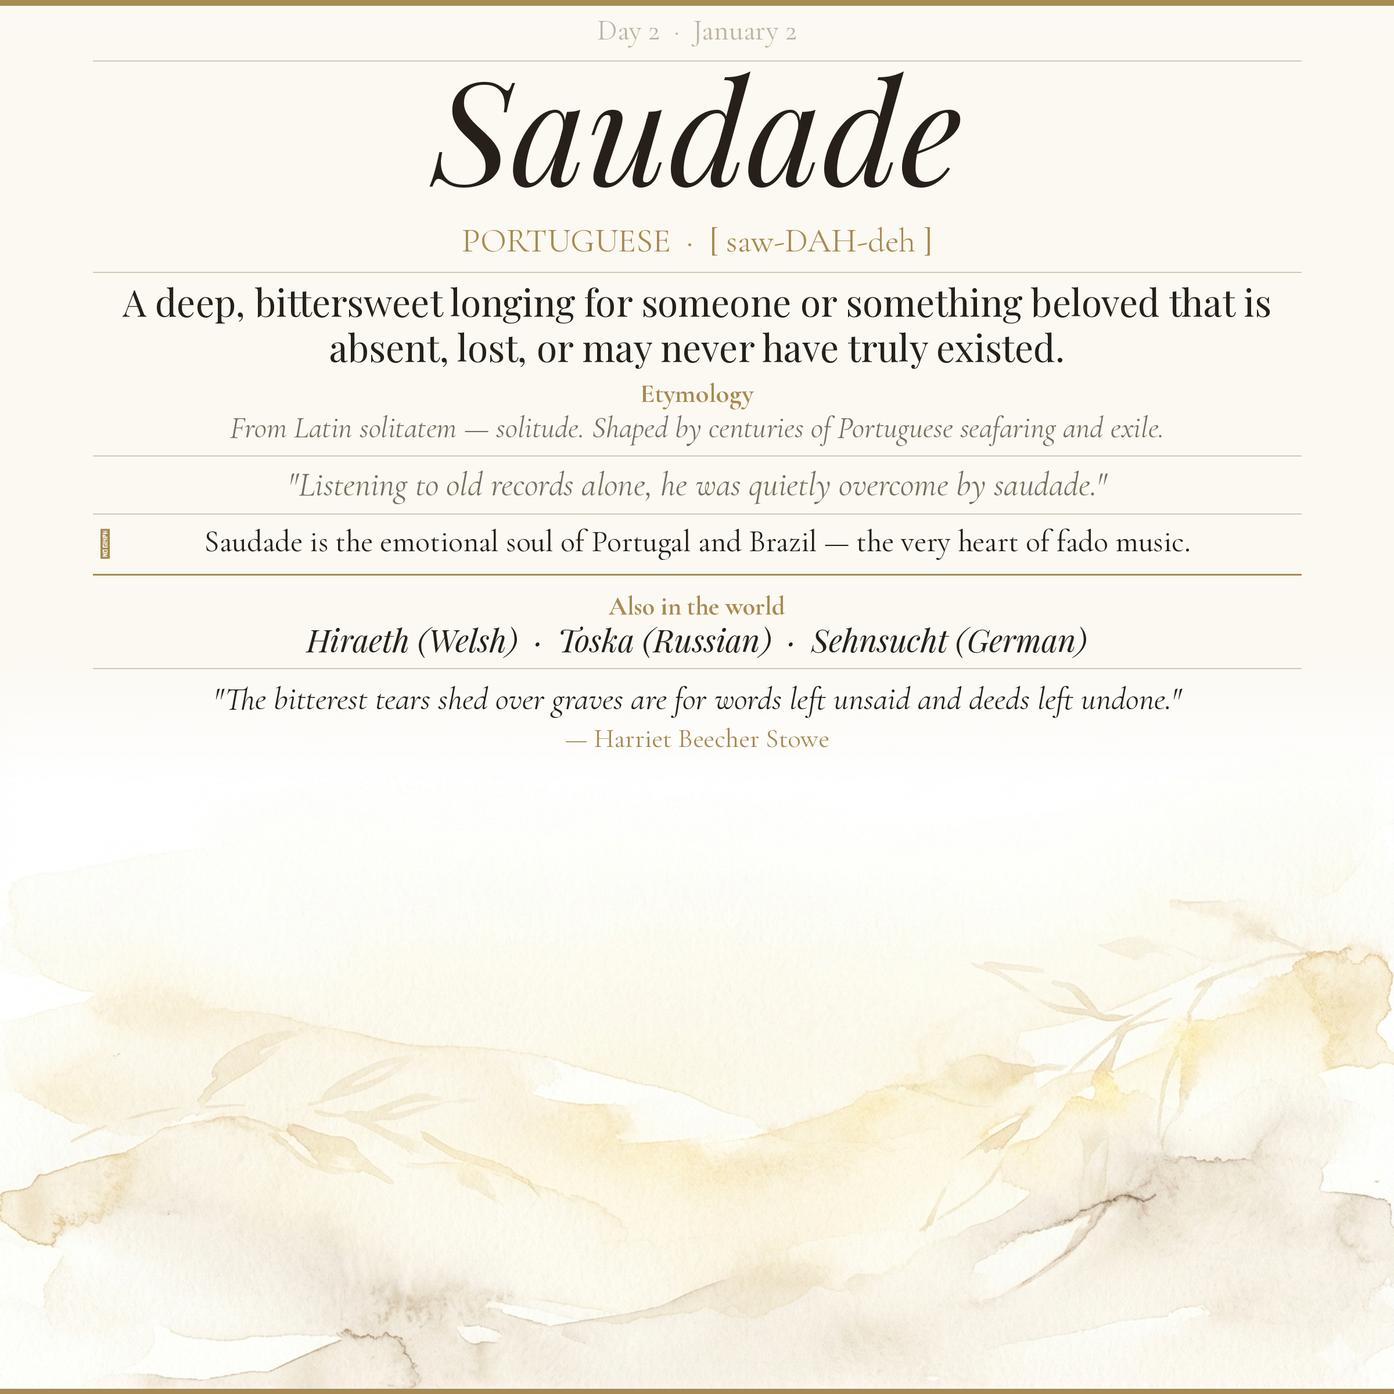
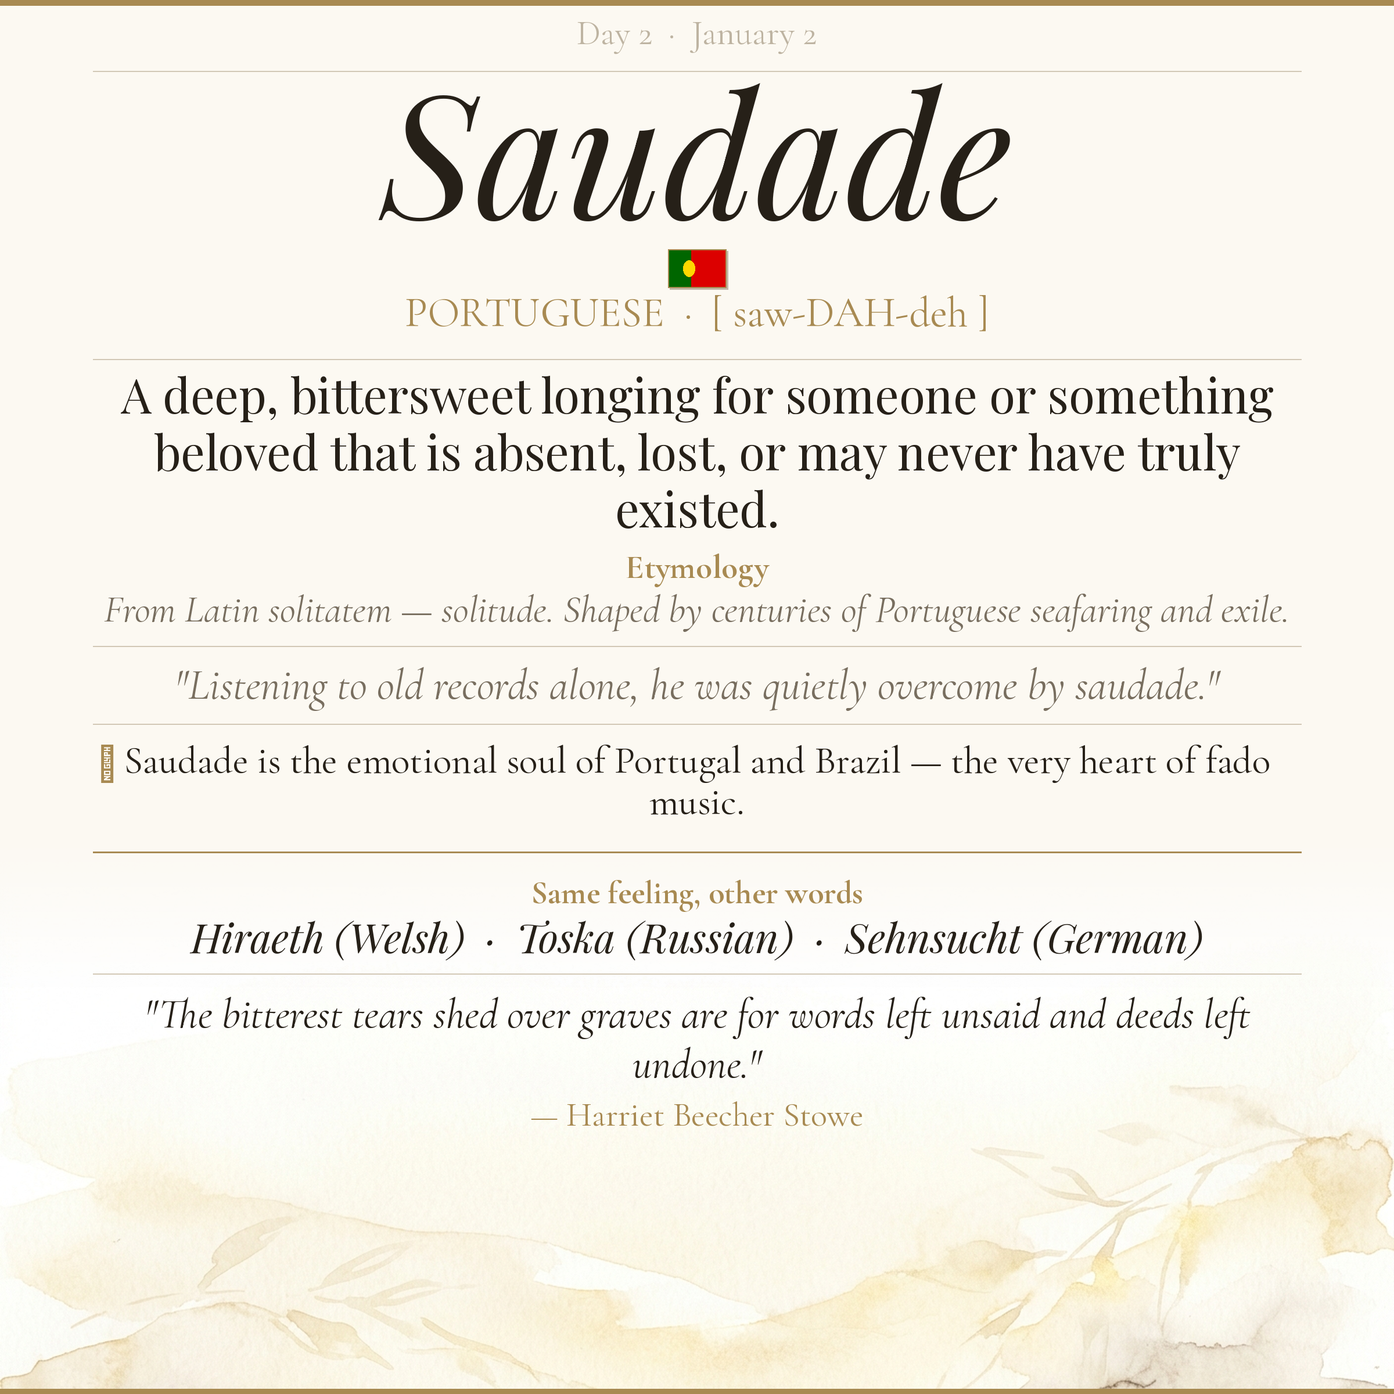
Add mini flags, bigger fonts, clearer section labels to word book
- Draw_mini_flag() renders 100×66 country flags for 30+ languages
- All font sizes increased ~28% for better page fill
- "Also in the world" renamed to "Same feeling, other words"
- Watercolor starts at 60% of page height (was 50%)
- Content now fills ~75-80% of page height

https://claude.ai/code/session_018BNd1Ba7eFukj4va47McZo

diff --git a/make_word_book.py b/make_word_book.py
@@ -8,7 +8,7 @@ import numpy as np, os
 BG_PATH = "/root/.claude/uploads/ed975202-b10e-4904-b9ca-246001848a28/2be84b39-1000008697.png"
 OUT_DIR  = "/home/user/Ebook"
 
-W, H   = 2400, 2400          # 8×8 inch carré à 300 DPI
+W, H   = 2400, 2400
 CREAM  = (252, 249, 242)
 GOLD   = (168, 138, 82)
 DARK   = (38,  32,  24)
@@ -16,7 +16,6 @@ GRAY   = (120, 110, 95)
 LGRAY  = (190, 180, 162)
 RULE   = (210, 200, 182)
 
-# Polices élégantes
 FC_REG  = "/home/user/Ebook/fonts/CormorantGaramond-Regular.ttf"
 FC_BOLD = "/home/user/Ebook/fonts/CormorantGaramond-Bold.ttf"
 FC_ITAL = "/home/user/Ebook/fonts/CormorantGaramond-Italic.ttf"
@@ -42,156 +41,267 @@ def wrap(text, font, draw, max_w):
 def rule(draw, y, x1=160, x2=None, color=None, w=1):
     if x2 is None: x2 = W - 160
     if color is None: color = RULE
-    draw.rectangle([x1, y, x2, y+w], fill=color)
+    draw.rectangle([x1, y, x2, y + w], fill=color)
 
 
-def ornament(draw, y, font_size=52):
-    fn = ImageFont.truetype(FC_REG, font_size)
-    draw.text((W//2, y), "✦", fill=GOLD, font=fn, anchor="mt")
+# ── Mini flag data ─────────────────────────────────────────────────────────────
+# (kind, color1, color2, color3)
+_FLAGS = {
+    "DANISH":               ("nordic",  (198,12,48),    (255,255,255), None),
+    "NORWEGIAN":            ("nordic",  (239,43,45),    (255,255,255), (0,40,104)),
+    "SWEDISH":              ("nordic",  (0,106,167),    (254,204,2),   None),
+    "FINNISH":              ("nordic",  (255,255,255),  (0,53,128),    None),
+    "ICELANDIC":            ("nordic",  (0,79,157),     (255,255,255), (220,0,0)),
+    "GERMAN":               ("h3",      (0,0,0),        (221,0,0),     (255,206,0)),
+    "DUTCH":                ("h3",      (174,28,40),    (255,255,255), (33,70,139)),
+    "RUSSIAN":              ("h3",      (255,255,255),  (0,57,166),    (213,43,30)),
+    "POLISH":               ("h2",      (255,255,255),  (220,0,0),     None),
+    "CZECH":                ("czech",   (255,255,255),  (215,20,26),   (17,69,126)),
+    "FRENCH":               ("v3",      (0,85,164),     (255,255,255), (239,65,53)),
+    "ITALIAN":              ("v3",      (0,146,70),     (255,255,255), (206,43,55)),
+    "SPANISH":              ("h4",      (170,21,27),    (241,191,0),   None),
+    "PORTUGUESE":           ("pt",      (0,102,0),      (220,0,0),     (255,215,0)),
+    "BRAZILIAN PORTUGUESE": ("pt",      (0,102,0),      (220,0,0),     (255,215,0)),
+    "JAPANESE":             ("circle",  (255,255,255),  (188,0,45),    None),
+    "KOREAN":               ("circle",  (255,255,255),  (205,46,58),   None),
+    "INUIT":                ("circle",  (255,255,255),  (204,12,0),    None),
+    "TURKISH":              ("turkish", (227,10,23),    (255,255,255), None),
+    "GREEK":                ("greek",   (13,94,175),    (255,255,255), None),
+    "HEBREW":               ("israel",  (255,255,255),  (0,56,184),    None),
+    "ARABIC":               ("solid",   (0,106,78),     None,          None),
+    "WELSH":                ("welsh",   (255,255,255),  (0,159,40),    (210,16,52)),
+    "URDU":                 ("india",   (255,153,51),   (255,255,255), (19,136,8)),
+    "HINDI":                ("india",   (255,153,51),   (255,255,255), (19,136,8)),
+    "SANSKRIT":             ("india",   (255,153,51),   (255,255,255), (19,136,8)),
+    "BORO":                 ("india",   (255,153,51),   (255,255,255), (19,136,8)),
+    "ZULU":                 ("solid",   (0,119,73),     None,          None),
+    "TAGALOG":              ("solid",   (0,56,168),     None,          None),
+    "YAGHAN":               ("solid",   (180,170,155),  None,          None),
+}
 
+
+def draw_mini_flag(draw, cx, cy, language):
+    """Draw a 100×66 mini flag centered at (cx, cy)."""
+    FW, FH = 100, 66
+    x0, y0 = cx - FW // 2, cy - FH // 2
+    x1, y1 = cx + FW // 2, cy + FH // 2
+    mx = x0 + FW // 3   # Nordic cross vertical bar (offset left)
+
+    lang = language.upper()
+    kind, c1, c2, c3 = _FLAGS.get(lang, ("solid", (200,185,165), None, None))
+
+    # Drop shadow
+    draw.rectangle([x0+3, y0+3, x1+3, y1+3], fill=(195,185,170))
+
+    # Base
+    draw.rectangle([x0, y0, x1, y1], fill=c1 or (235,228,215))
+
+    if kind == "nordic":
+        draw.rectangle([x0, cy-5, x1, cy+5], fill=c2)
+        draw.rectangle([mx-5, y0, mx+5, y1], fill=c2)
+        if c3:
+            draw.rectangle([x0, cy-3, x1, cy+3], fill=c3)
+            draw.rectangle([mx-3, y0, mx+3, y1], fill=c3)
+
+    elif kind == "h3":
+        h = FH // 3
+        draw.rectangle([x0, y0+h,   x1, y0+2*h], fill=c2)
+        draw.rectangle([x0, y0+2*h, x1, y1],     fill=c3)
+
+    elif kind == "h2":
+        draw.rectangle([x0, y0+FH//2, x1, y1], fill=c2)
+
+    elif kind == "h4":
+        draw.rectangle([x0, y0+FH//4, x1, y0+3*FH//4], fill=c2)
+
+    elif kind == "v3":
+        w3 = FW // 3
+        draw.rectangle([x0+w3,   y0, x0+2*w3, y1], fill=c2)
+        draw.rectangle([x0+2*w3, y0, x1,       y1], fill=c3)
+
+    elif kind == "circle":
+        draw.ellipse([cx-17, cy-17, cx+17, cy+17], fill=c2)
+
+    elif kind == "pt":
+        # Portugal: narrow green stripe left, red right, gold sphere on seam
+        draw.rectangle([x0+FW*2//5, y0, x1, y1], fill=c2)
+        draw.ellipse([cx-FW//5-4, cy-14, cx-FW//5+16, cy+14], fill=c3)
+
+    elif kind == "czech":
+        draw.rectangle([x0, cy, x1, y1], fill=c2)
+        draw.polygon([(x0,y0),(x0+FW//2,cy),(x0,y1)], fill=c3)
+
+    elif kind == "israel":
+        draw.rectangle([x0, y0+FH//6,   x1, y0+2*FH//6], fill=c2)
+        draw.rectangle([x0, y0+4*FH//6, x1, y0+5*FH//6], fill=c2)
+
+    elif kind == "welsh":
+        draw.rectangle([x0, cy, x1, y1], fill=c2)
+        # Simplified dragon hint
+        draw.ellipse([cx-13, cy-24, cx+13, cy+4], fill=c3)
+
+    elif kind == "turkish":
+        draw.ellipse([cx-18, cy-13, cx+11, cy+13], fill=c2)
+        draw.ellipse([cx-11, cy-10, cx+14, cy+10], fill=c1)
+
+    elif kind == "greek":
+        h = FH // 5
+        for i in range(5):
+            if i % 2 == 1:
+                draw.rectangle([x0, y0+i*h, x1, y0+(i+1)*h], fill=c2)
+
+    elif kind == "india":
+        h3 = FH // 3
+        draw.rectangle([x0, y0,      x1, y0+h3],   fill=c1)
+        draw.rectangle([x0, y0+h3,   x1, y0+2*h3], fill=c2)
+        draw.rectangle([x0, y0+2*h3, x1, y1],       fill=c3)
+
+    # Gold border
+    draw.rectangle([x0, y0, x1, y1], outline=GOLD, width=2)
+
+
+# ── Page renderer ─────────────────────────────────────────────────────────────
 
 def make_page(day_num, date_str, word, language, pronunciation,
               definition, etymology, example, cultural_note,
               related, quote, quote_author,
               out_name="word_demo.png"):
 
-    # ── Canvas ────────────────────────────────────────────────────────────────
+    # Canvas
     img = Image.new("RGB", (W, H), CREAM)
 
-    # ── Watercolor — remonte haut, texte écrit par-dessus ────────────────────
-    bg = Image.open(BG_PATH).convert("RGB")
-    # Étirer pour couvrir la moitié inférieure de la page
-    bg_start = H // 2 - 80
+    # Watercolor background
+    bg       = Image.open(BG_PATH).convert("RGB")
+    bg_start = round(H * 0.60)
     bg_zone  = H - bg_start
-    scale_h  = bg_zone / bg.height
-    scale_w  = W / bg.width
-    scale    = max(scale_h, scale_w)
-    nw, nh   = round(bg.width*scale), round(bg.height*scale)
+    scale    = max(bg_zone / bg.height, W / bg.width)
+    nw, nh   = round(bg.width * scale), round(bg.height * scale)
     bg = bg.resize((nw, nh), Image.LANCZOS)
-    bg = bg.crop(((nw-W)//2, 0, (nw-W)//2+W, bg_zone))
-
-    # Fondu progressif cream → watercolor sur 220px
+    bg = bg.crop(((nw - W) // 2, 0, (nw - W) // 2 + W, bg_zone))
     arr  = np.array(bg, float)
-    fade = 220
+    fade = 260
     for i in range(min(fade, bg_zone)):
         t = i / fade
-        arr[i] = np.array(CREAM)*(1-t) + arr[i]*t
+        arr[i] = np.array(CREAM) * (1 - t) + arr[i] * t
     img.paste(Image.fromarray(arr.astype("uint8")), (0, bg_start))
 
     draw = ImageDraw.Draw(img)
 
-    # ── Bandes dorées ─────────────────────────────────────────────────────────
-    draw.rectangle([0, 0, W, 9], fill=GOLD)
+    # Gold bands
+    draw.rectangle([0, 0, W, 9],   fill=GOLD)
     draw.rectangle([0, H-9, W, H], fill=GOLD)
 
-    # ── Date & numéro ─────────────────────────────────────────────────────────
-    fn_date = ImageFont.truetype(FC_REG, 50)
-    draw.text((W//2, 36), f"Day {day_num}  ·  {date_str}",
+    # ── Date ──────────────────────────────────────────────────────────────────
+    fn_date = ImageFont.truetype(FC_REG, 60)
+    draw.text((W // 2, 38), f"Day {day_num}  ·  {date_str}",
               fill=LGRAY, font=fn_date, anchor="mt")
-    rule(draw, 104)
+    rule(draw, 122)
 
-    # ── LE MOT ────────────────────────────────────────────────────────────────
-    fn_word = ImageFont.truetype(FP_ITAL, 248)
-    draw.text((W//2, 122), word, fill=DARK, font=fn_word, anchor="mt")
+    # ── Word ──────────────────────────────────────────────────────────────────
+    fn_word = ImageFont.truetype(FP_ITAL, 295)
+    draw.text((W // 2, 142), word, fill=DARK, font=fn_word, anchor="mt")
 
-    # ── Langue + prononciation ────────────────────────────────────────────────
-    fn_lang = ImageFont.truetype(FC_REG, 58)
-    draw.text((W//2, 390), f"{language.upper()}  ·  {pronunciation}",
+    # ── Flag + Language + Pronunciation ───────────────────────────────────────
+    flag_cy = 462
+    draw_mini_flag(draw, W // 2, flag_cy, language)
+
+    fn_lang = ImageFont.truetype(FC_REG, 72)
+    draw.text((W // 2, flag_cy + 46),
+              f"{language.upper()}  ·  {pronunciation}",
               fill=GOLD, font=fn_lang, anchor="mt")
-    rule(draw, 468)
-    y = 494
+    rule(draw, 618)
+    y = 646
 
-    # ── Définition ────────────────────────────────────────────────────────────
-    fn_def = ImageFont.truetype(FP_REG, 64)
-    for line in wrap(definition, fn_def, draw, W-340):
-        draw.text((W//2, y), line, fill=DARK, font=fn_def, anchor="mt")
-        y += 78
-    y += 8
+    # ── Definition ────────────────────────────────────────────────────────────
+    fn_def = ImageFont.truetype(FP_REG, 82)
+    for line in wrap(definition, fn_def, draw, W - 300):
+        draw.text((W // 2, y), line, fill=DARK, font=fn_def, anchor="mt")
+        y += 98
+    y += 12
 
-    # ── Étymologie ────────────────────────────────────────────────────────────
-    fn_etym_lbl = ImageFont.truetype(FC_BOLD, 46)
-    fn_etym     = ImageFont.truetype(FC_ITAL, 52)
-    draw.text((W//2, y), "Etymology", fill=GOLD, font=fn_etym_lbl, anchor="mt")
-    y += 56
-    for line in wrap(etymology, fn_etym, draw, W-340):
-        draw.text((W//2, y), line, fill=GRAY, font=fn_etym, anchor="mt")
-        y += 62
-    y += 8
-    rule(draw, y); y += 26
+    # ── Etymology ─────────────────────────────────────────────────────────────
+    fn_etym_lbl = ImageFont.truetype(FC_BOLD, 58)
+    fn_etym     = ImageFont.truetype(FC_ITAL, 66)
+    draw.text((W // 2, y), "Etymology", fill=GOLD, font=fn_etym_lbl, anchor="mt")
+    y += 70
+    for line in wrap(etymology, fn_etym, draw, W - 300):
+        draw.text((W // 2, y), line, fill=GRAY, font=fn_etym, anchor="mt")
+        y += 80
+    y += 10
+    rule(draw, y); y += 36
 
-    # ── Phrase exemple ────────────────────────────────────────────────────────
-    fn_ex = ImageFont.truetype(FC_ITAL, 58)
-    for line in wrap(f'"{example}"', fn_ex, draw, W-360):
-        draw.text((W//2, y), line, fill=GRAY, font=fn_ex, anchor="mt")
-        y += 68
-    y += 6
-    rule(draw, y); y += 26
+    # ── Example ───────────────────────────────────────────────────────────────
+    fn_ex = ImageFont.truetype(FC_ITAL, 74)
+    for line in wrap(f'"{example}"', fn_ex, draw, W - 320):
+        draw.text((W // 2, y), line, fill=GRAY, font=fn_ex, anchor="mt")
+        y += 88
+    y += 10
+    rule(draw, y); y += 36
 
-    # ── Note culturelle ── (sur fond cream encore)
-    fn_note = ImageFont.truetype(FC_REG, 52)
+    # ── Cultural note ─────────────────────────────────────────────────────────
+    fn_note = ImageFont.truetype(FC_REG, 66)
     draw.text((168, y), "✦", fill=GOLD, font=fn_note, anchor="lt")
-    for line in wrap(cultural_note, fn_note, draw, W-400):
-        draw.text((W//2, y), line, fill=DARK, font=fn_note, anchor="mt")
-        y += 62
-    y += 16
+    for line in wrap(cultural_note, fn_note, draw, W - 370):
+        draw.text((W // 2, y), line, fill=DARK, font=fn_note, anchor="mt")
+        y += 80
+    y += 24
 
-    # ═══ À partir d'ici : texte sur l'aquarelle ════════════════════════════
-    rule(draw, y, color=GOLD, w=2); y += 36
+    # ═══ Watercolor zone ══════════════════════════════════════════════════════
+    rule(draw, y, color=GOLD, w=2); y += 48
 
-    # ── Mots apparentés ───────────────────────────────────────────────────────
-    fn_rel_lbl = ImageFont.truetype(FC_BOLD, 44)
-    fn_rel     = ImageFont.truetype(FP_ITAL, 54)
-    draw.text((W//2, y), "Also in the world", fill=GOLD,
-              font=fn_rel_lbl, anchor="mt")
-    y += 54
-    draw.text((W//2, y), related, fill=DARK, font=fn_rel, anchor="mt")
-    y += 72
+    # ── Related words ─────────────────────────────────────────────────────────
+    fn_rel_lbl = ImageFont.truetype(FC_BOLD, 56)
+    fn_rel     = ImageFont.truetype(FP_ITAL, 70)
+    draw.text((W // 2, y), "Same feeling, other words",
+              fill=GOLD, font=fn_rel_lbl, anchor="mt")
+    y += 70
+    draw.text((W // 2, y), related, fill=DARK, font=fn_rel, anchor="mt")
+    y += 92
+    rule(draw, y); y += 40
 
-    rule(draw, y); y += 30
-
-    # ── Citation ──────────────────────────────────────────────────────────────
-    fn_q  = ImageFont.truetype(FC_ITAL, 56)
-    fn_qa = ImageFont.truetype(FC_REG,  46)
-    for line in wrap(f'"{quote}"', fn_q, draw, W-380):
-        draw.text((W//2, y), line, fill=DARK, font=fn_q, anchor="mt")
-        y += 68
-    y += 4
-    draw.text((W//2, y), f"— {quote_author}", fill=GOLD, font=fn_qa, anchor="mt")
+    # ── Quote ─────────────────────────────────────────────────────────────────
+    fn_q  = ImageFont.truetype(FC_ITAL, 72)
+    fn_qa = ImageFont.truetype(FC_REG,  58)
+    for line in wrap(f'"{quote}"', fn_q, draw, W - 340):
+        draw.text((W // 2, y), line, fill=DARK, font=fn_q, anchor="mt")
+        y += 86
+    y += 8
+    draw.text((W // 2, y), f"— {quote_author}", fill=GOLD, font=fn_qa, anchor="mt")
 
     img.save(os.path.join(OUT_DIR, out_name))
-    print(f"✓ {out_name}")
+    print(f"✓ {out_name}  (content ends y={y})")
 
 
-# ── Pages demo ────────────────────────────────────────────────────────────────
+# ── Demo ──────────────────────────────────────────────────────────────────────
 
 make_page(
-    day_num      = 1,
-    date_str     = "January 1",
-    word         = "Hygge",
-    language     = "Danish",
-    pronunciation= "[ HUE-gah ]",
-    definition   = "The art of creating warm, cozy moments of togetherness that nurture a deep sense of well-being and contentment.",
-    etymology    = "From Old Norse hygga — to comfort, to console. Related to the English word hug.",
-    example      = "She lit candles, brewed tea, and let hygge fill the quiet Sunday afternoon.",
-    cultural_note= "Danes consistently rank among the world's happiest people — and hygge is widely cited as their secret.",
-    related      = "Gezellig (Dutch)  ·  Gemütlich (German)  ·  Mysig (Swedish)",
-    quote        = "There is no duty we so much underrate as the duty of being happy.",
-    quote_author = "Robert Louis Stevenson",
-    out_name     = "word_jan01_hygge.png"
+    day_num       = 1,
+    date_str      = "January 1",
+    word          = "Hygge",
+    language      = "Danish",
+    pronunciation = "[ HUE-gah ]",
+    definition    = "The art of creating warm, cozy moments of togetherness that nurture a deep sense of well-being and contentment.",
+    etymology     = "From Old Norse hygga — to comfort, to console. Related to the English word hug.",
+    example       = "She lit candles, brewed tea, and let hygge fill the quiet Sunday afternoon.",
+    cultural_note = "Danes consistently rank among the world's happiest people — and hygge is widely cited as their secret.",
+    related       = "Gezellig (Dutch)  ·  Gemütlich (German)  ·  Mysig (Swedish)",
+    quote         = "There is no duty we so much underrate as the duty of being happy.",
+    quote_author  = "Robert Louis Stevenson",
+    out_name      = "word_jan01_hygge.png",
 )
 
 make_page(
-    day_num      = 2,
-    date_str     = "January 2",
-    word         = "Saudade",
-    language     = "Portuguese",
-    pronunciation= "[ saw-DAH-deh ]",
-    definition   = "A deep, bittersweet longing for someone or something beloved that is absent, lost, or may never have truly existed.",
-    etymology    = "From Latin solitatem — solitude. Shaped by centuries of Portuguese seafaring and exile.",
-    example      = "Listening to old records alone, he was quietly overcome by saudade.",
-    cultural_note= "Saudade is the emotional soul of Portugal and Brazil — the very heart of fado music.",
-    related      = "Hiraeth (Welsh)  ·  Toska (Russian)  ·  Sehnsucht (German)",
-    quote        = "The bitterest tears shed over graves are for words left unsaid and deeds left undone.",
-    quote_author = "Harriet Beecher Stowe",
-    out_name     = "word_jan02_saudade.png"
+    day_num       = 2,
+    date_str      = "January 2",
+    word          = "Saudade",
+    language      = "Portuguese",
+    pronunciation = "[ saw-DAH-deh ]",
+    definition    = "A deep, bittersweet longing for someone or something beloved that is absent, lost, or may never have truly existed.",
+    etymology     = "From Latin solitatem — solitude. Shaped by centuries of Portuguese seafaring and exile.",
+    example       = "Listening to old records alone, he was quietly overcome by saudade.",
+    cultural_note = "Saudade is the emotional soul of Portugal and Brazil — the very heart of fado music.",
+    related       = "Hiraeth (Welsh)  ·  Toska (Russian)  ·  Sehnsucht (German)",
+    quote         = "The bitterest tears shed over graves are for words left unsaid and deeds left undone.",
+    quote_author  = "Harriet Beecher Stowe",
+    out_name      = "word_jan02_saudade.png",
 )
